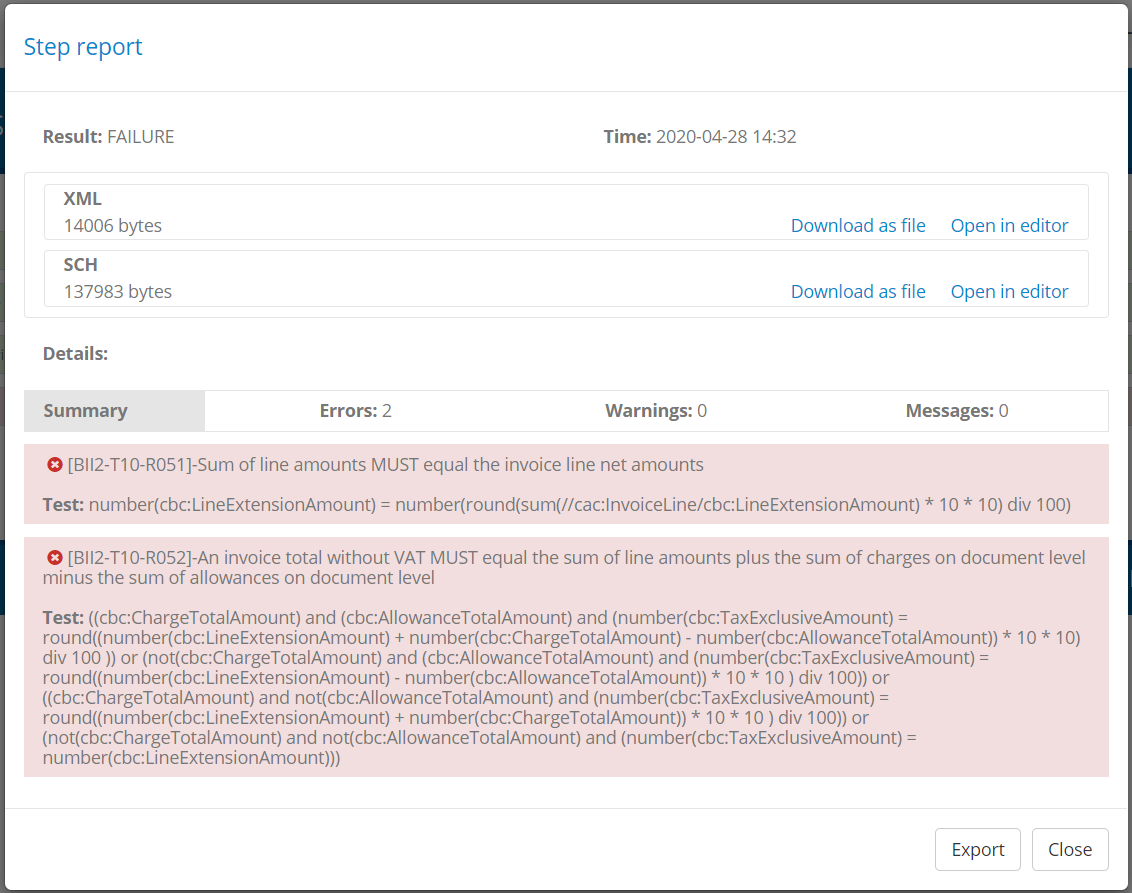
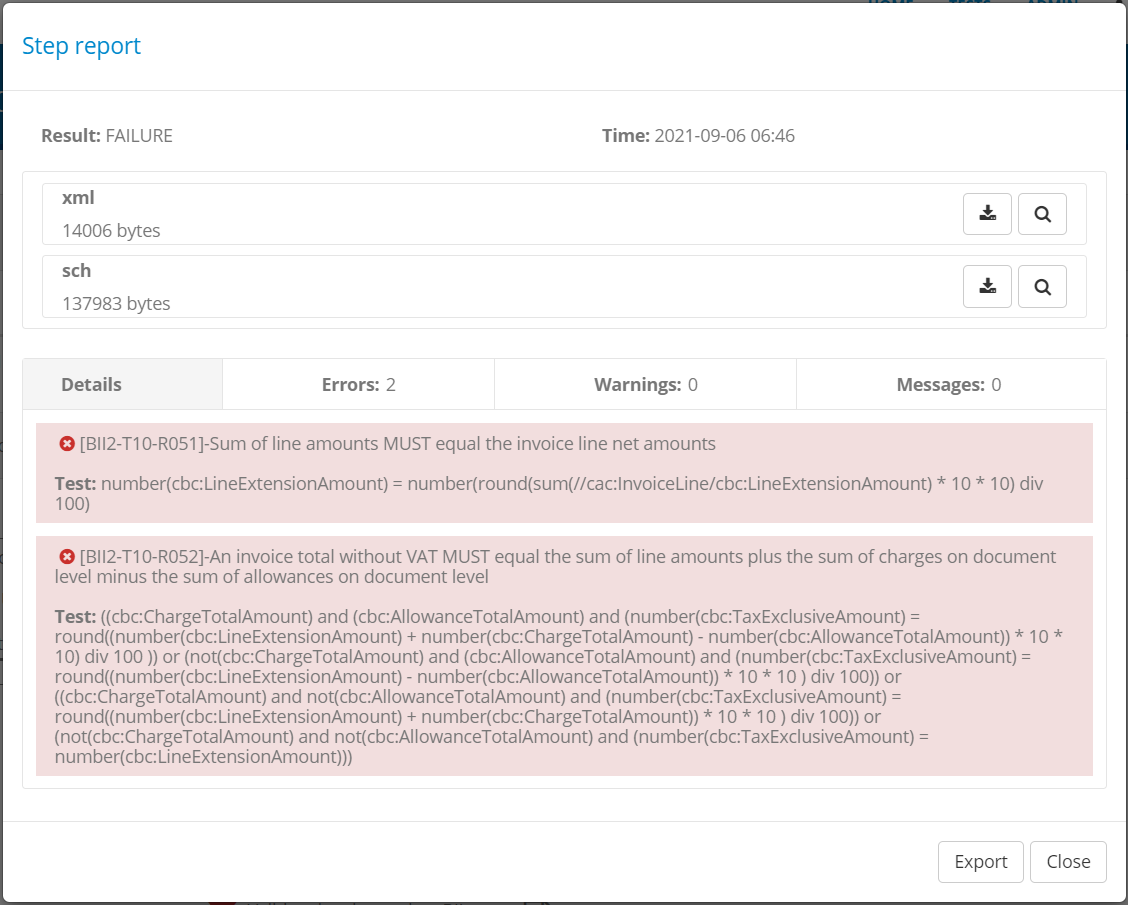
Updates for release 1.14.1

diff --git a/source/executeTests/index.rst b/source/executeTests/index.rst
@@ -313,9 +313,10 @@ of the error, warning and information message counts, as illustrated in the foll
   :scale: 50%
 
 In the test step result popup you are presented with the **result** and completion **time** as the step summary. In the sections that follow you 
-can inspect the output information from the step, presented either inline (for short values), as a file you can download, or through a further popup editor. In the latter case
-this is triggered by clicking the **Open in editor** link. Clicking to open this, displays its content which, in the case of validation steps, 
-is also highlighted for the recorded validation messages.
+can inspect the output information from the step, presented either inline (for short values), as a file you can download, or through a further popup editor.
+These two latter options are available by clicking the **download** or **view** icons respectively at the right of each section. In case you choose to
+view the content in an editor, a popup is presented that displays the content which, in the case of validation steps, is also highlighted for the
+recorded validation messages.
 
 .. figure:: ../screenshots/test_execution_execute_step_failure_code.PNG
   :align: center
@@ -325,12 +326,16 @@ The editor popup allows you to copy a specific part of the content or, by means 
 **Close** button closes this popup and returns you to the test step result display. Note that clicking on a specific error will  
 open the validated content and automatically focus on the selected error.
 
-An alternative to viewing the content in this way is to click the **Download as file** link which will download the content as a file. The test bed will determine
+An alternative to viewing the content in this way is to click the **download** button which will download the content as a file. The test bed will determine
 the most appropriate type for the content and name the downloaded file accordingly (if possible).
 
 .. note::
     **Viewing binary output:** The **Download as file** option is the best way to inspect information that is binary (e.g. an image). The test bed will nonetheless
     always present the **Open in editor** option but given that the content is then assumed to be text, this will likely not be useful.
+
+The errors, warnings and information messages displayed are contained in a **details** section that also shows the overall counts per violation
+severity level. This summary title is also clickable, to allow the listed details to be collapsed or expanded if already collapsed. Collapsing the
+displayed details could be useful in case they are numerous, providing as such easier access to the popup's additional controls.
 
 The results of the test step can also be exported as a test step report (in PDF format). This is made available through the **Export** button that triggers the 
 generation and download of the step report. 